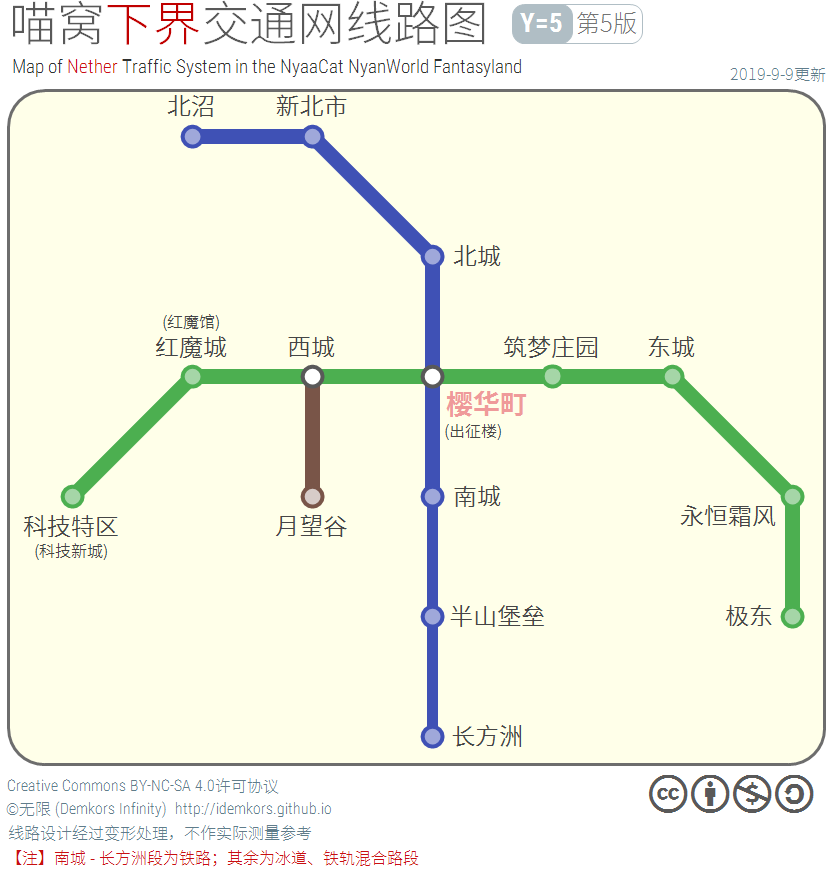
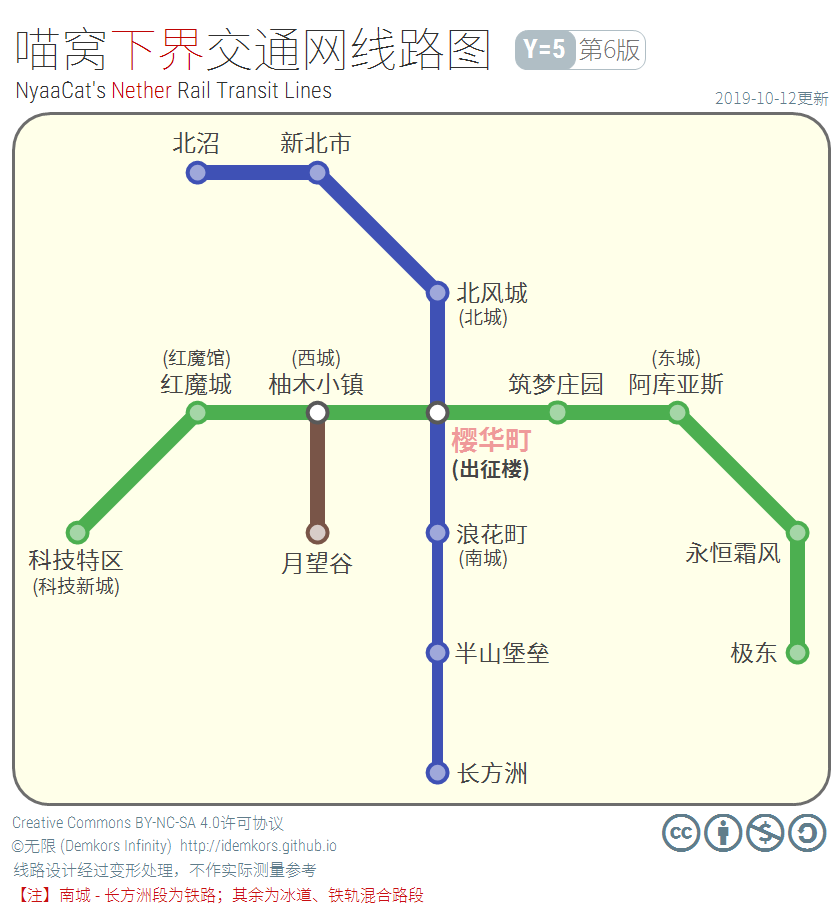
UPDATE iDemkors-featured Rail Maps: RENAME map-SouthCity-subway TO map-Naniwa-subway; ADD 3 Stations (still under construction); RENAME a couple of Stations. See https://bbs.nyaa.cat/d/951--/89

Changed region(s): [[0.0, 0.0, 1.0, 1.0]]

diff --git a/space/map-navi/railway-universal-iDemkors.md b/space/map-navi/railway-universal-iDemkors.md
@@ -5,9 +5,9 @@
 - **《主世界》**包括公认的“公共铁路网”（含“一级铁路”“二级铁路”），以及不属于“公共铁路网”、但与其**直接**接驳的线路。
 - **《下界》**包括**由樱华町（出征楼）传送门附近出发**，在下界Y=5~9处铺设的交通网（含铁路线及冰、铁混合线）。
 - **《新北市地铁》**包括新北市当前的4条地铁线、1条有轨电车线，以及过境的“公共”铁路线。
-- **《南城地铁》**包括南方主城当前的3条地铁线，【村庄】站至【东海望城堡】的直达线，以及过境、接驳的“公共”铁路线。
+- **《浪花町内地铁》**包括浪花町当前的3条地铁线，【村庄】站至【东海望城堡】的直达线，以及过境、接驳的“公共”铁路线。
 
-## 阅览前请注意
+## ⚠阅览前请注意
 
 1. **图中一切线路、站点的存在及名称，为基于“现状”判断而得，不代表管理组观点及喵窝全体共识，仅供参考。**
 2. 部分站名由于实际上过长，不便记忆，而被改写。如：“南方一、二级换乘站A”→【南换乘站A】。  
@@ -16,39 +16,41 @@
 4. 线路之编号、配色仅仅起**装饰性**作用。引用时请慎重。
 5. 患色弱、色盲者如遇辨识障碍，请立即联系作者。
 
-### 温馨提示
+### ℹ温馨提示
 
 1. 站点以线路上的**圆圈**表示。其中：  
    白底灰边者为**换乘站**（如各个主城）；  
    特别地，由一根“细棍子”连通两个换乘站，表示 **“跨平台换乘”**（如东城）；  
    其余为**普通站点。**
-2. 南城地铁站牌标示大多为英文，作为文化遗产被保留。乘坐时，请自行判断欲经过的站台数量。
+2. 浪花町内地铁的站牌，标示大多为英文，作为文化遗产被保留。乘坐时，请自行判断欲经过的站台数量。
 3. 某些站点名称未确定，给予了暂定名。本图尽可能尊重当地住户、建设者之意见，欢迎提供更合适的站名。
 
 - - -
 
 ## 主世界线路图
 
-![喵窝主世界轨道交通线路图](../../assets/images/map-navi/map-Overworld-Rail-iDemkors.png)
+![主世界轨道交通](../../assets/images/map-navi/map-Overworld-Rail-iDemkors.png)
 
-?> :information_source: 【东城】三个站台分别称 *“东城站”“东城北站”“东城南站”*，分别接入②号线、③号线（北向）、③号线（南向）。
+?> :information_source: 【阿库亚斯】三个站台分别称  
+**“阿库亚斯站”“阿库亚斯北站”“阿库亚斯南站”**，  
+分别接入②号线、③号线（往东北总站）、③号线（往东南总站）。
 
 - - -
 
-## 南城地铁线路图
+## 浪花町内地铁线路图
 
-![南城地铁线路图](../../assets/images/map-navi/map-SouthCity-subway-iDemkors.png)
+![浪花町内地铁](../../assets/images/map-navi/map-Naniwa-subway-iDemkors.png)
 
 - - -
 
 ## 新北市地铁线路图
 
-![喵窝新北市地铁线路图](../../assets/images/map-navi/map-NewNorth-subway-iDemkors.png)
+![新北市地铁](../../assets/images/map-navi/map-NewNorth-subway-iDemkors.png)
 
 - - -
 
 ## 下界交通网线路图
 
-![喵窝下界交通网线路图](../../assets/images/map-navi/map-nether-traffic-iDemkors.png)
+![下界交通网](../../assets/images/map-navi/map-nether-traffic-iDemkors.png)
 
 !> 更多搭乘指南请见[此页](space/map-navi/railway-nether "下界铁路搭乘指南")。

diff --git a/nyaa/realms/naniwa.md b/nyaa/realms/naniwa.md
@@ -35,7 +35,7 @@
 - **【传送中心】** 则位于商业街入口东侧(200, 2564)，共设置21个传送牌。目前可到达科技特区、琥珀川（北沼）。
 - **【町内地铁】** 目前共开通10个站点，覆盖核心城区。线路图见下。
 
-![南城地铁线路图](../../assets/images/map-navi/map-SouthCity-subway-iDemkors.png)
+![浪花町内地铁线路图](../../assets/images/map-navi/map-Naniwa-subway-iDemkors.png)
 
 ## 观景旅游
 
